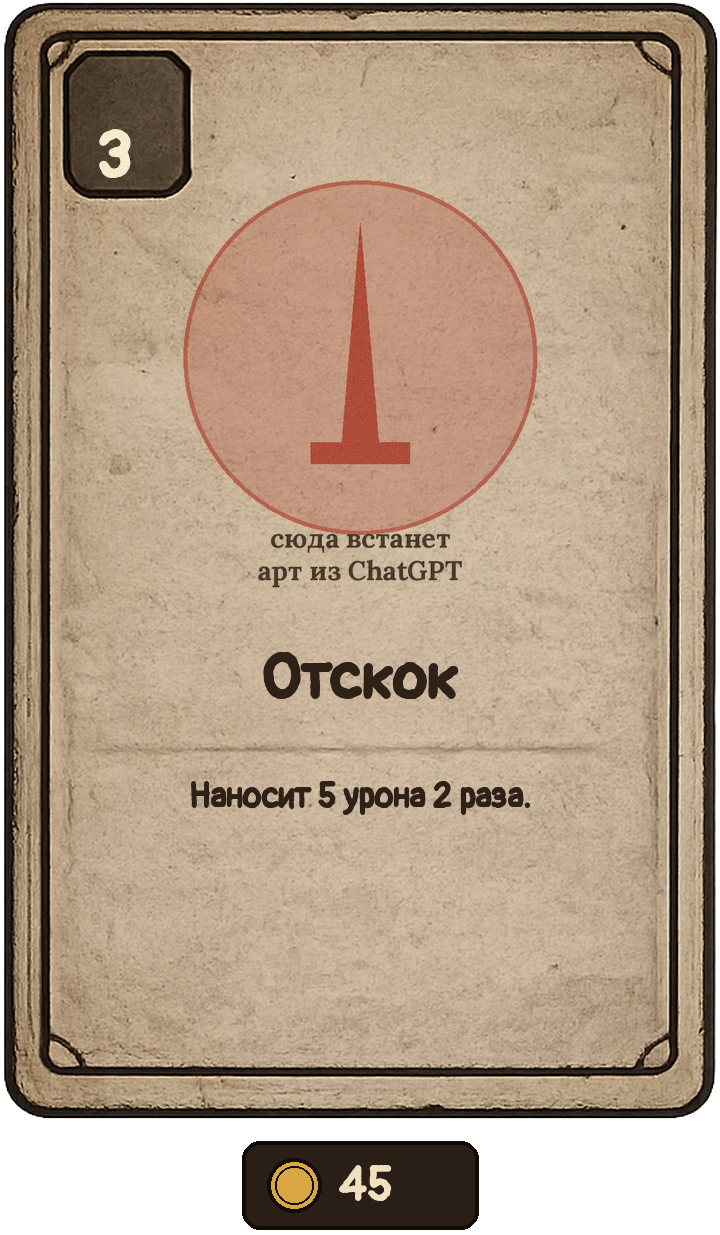
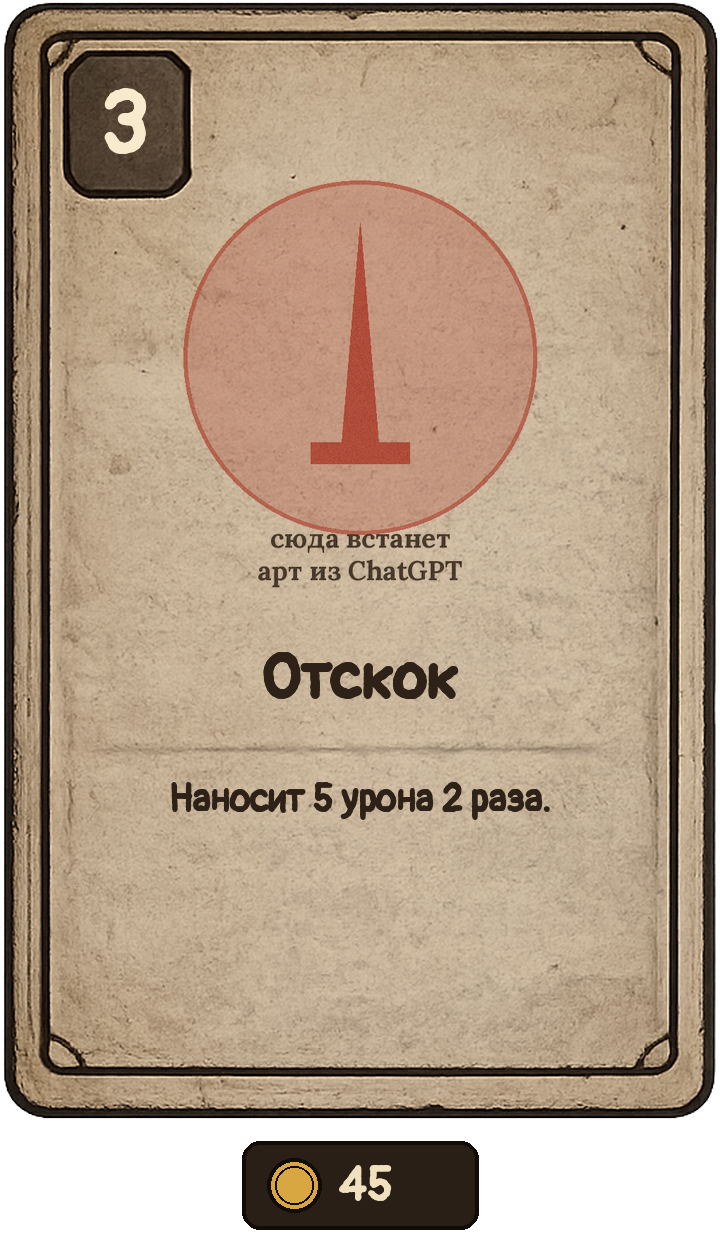
Center cost digit in badge, enlarge it and the description
- Detect the badge square precisely (erosion to drop the thin border)
  and place the cost via the glyph's real ink bbox, so it sits dead
  center instead of drifting off with Pangolin's loose metrics.
- Bump the cost digit and description sizes; widen line spacing to match.

Changed region(s): [[0.2444, 0.6154, 0.7639, 0.6769], [0.1222, 0.0615, 0.2139, 0.1538]]

diff --git a/style-forge/forge.py b/style-forge/forge.py
@@ -141,6 +141,13 @@ def ctext(d, cx, y, s, f, fill, sw=0):
     d.text((cx - d.textlength(s, font=f) / 2, y), s, font=f, fill=fill, stroke_width=sw, stroke_fill=fill)
 
 
+def glyph_centered(d, cx, cy, s, f, fill, sw=0):
+    """Ставит текст так, чтобы РЕАЛЬНАЯ краска глифа попала в точку (cx, cy).
+    Нужно для цифры в квадрате: метрики Pangolin врут, центруем по bbox."""
+    x0, y0, x1, y1 = f.getbbox(s, stroke_width=sw)
+    d.text((cx - (x0 + x1) / 2, cy - (y0 + y1) / 2), s, font=f, fill=fill, stroke_width=sw, stroke_fill=fill)
+
+
 def autocrop_alpha(img, pad=2):
     a = np.asarray(img.convert("RGBA"))[..., 3]
     ys, xs = np.where(a > 12)
@@ -317,12 +324,11 @@ def template_card(card, subject, cfg):
     subj = fit_contain(subj, (ax1 - ax0, ay1 - ay0))
     img.alpha_composite(subj, (cx - subj.width // 2, ay0 + (ay1 - ay0 - subj.height) // 2))
 
-    # стоимость в бейдж (у предметов энергии нет)
+    # стоимость в бейдж (у предметов энергии нет) — точно по центру квадрата
     if card["type"] != "item":
         bf = tfont(cfg, W * t["badge_size"])
-        ba, bd = bf.getmetrics()
-        ctext(d, int(W * t["badge_center"][0]), int(H * t["badge_center"][1]) - (ba + bd) / 2,
-              str(card["cost"]), bf, cream, sw["badge"])
+        glyph_centered(d, W * t["badge_center"][0], H * t["badge_center"][1],
+                       str(card["cost"]), bf, cream, sw["badge"])
 
     # название (над штатной линией)
     tf = fit_tfont(cfg, card["name"], W * 0.8, W * t["name_size"])
